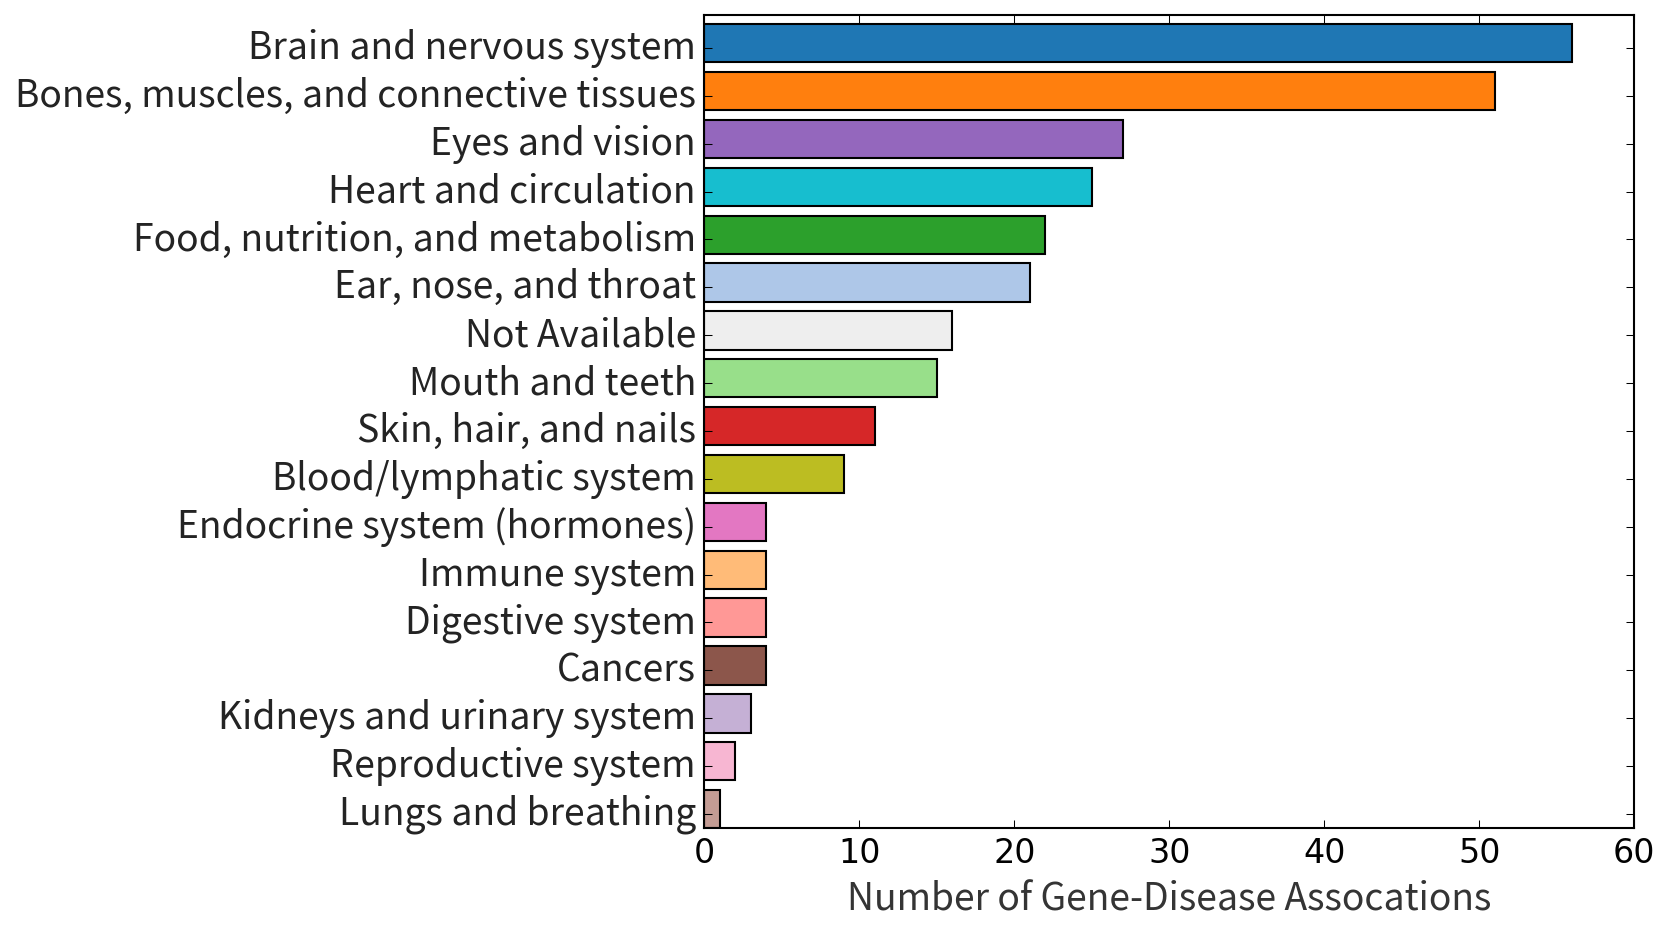
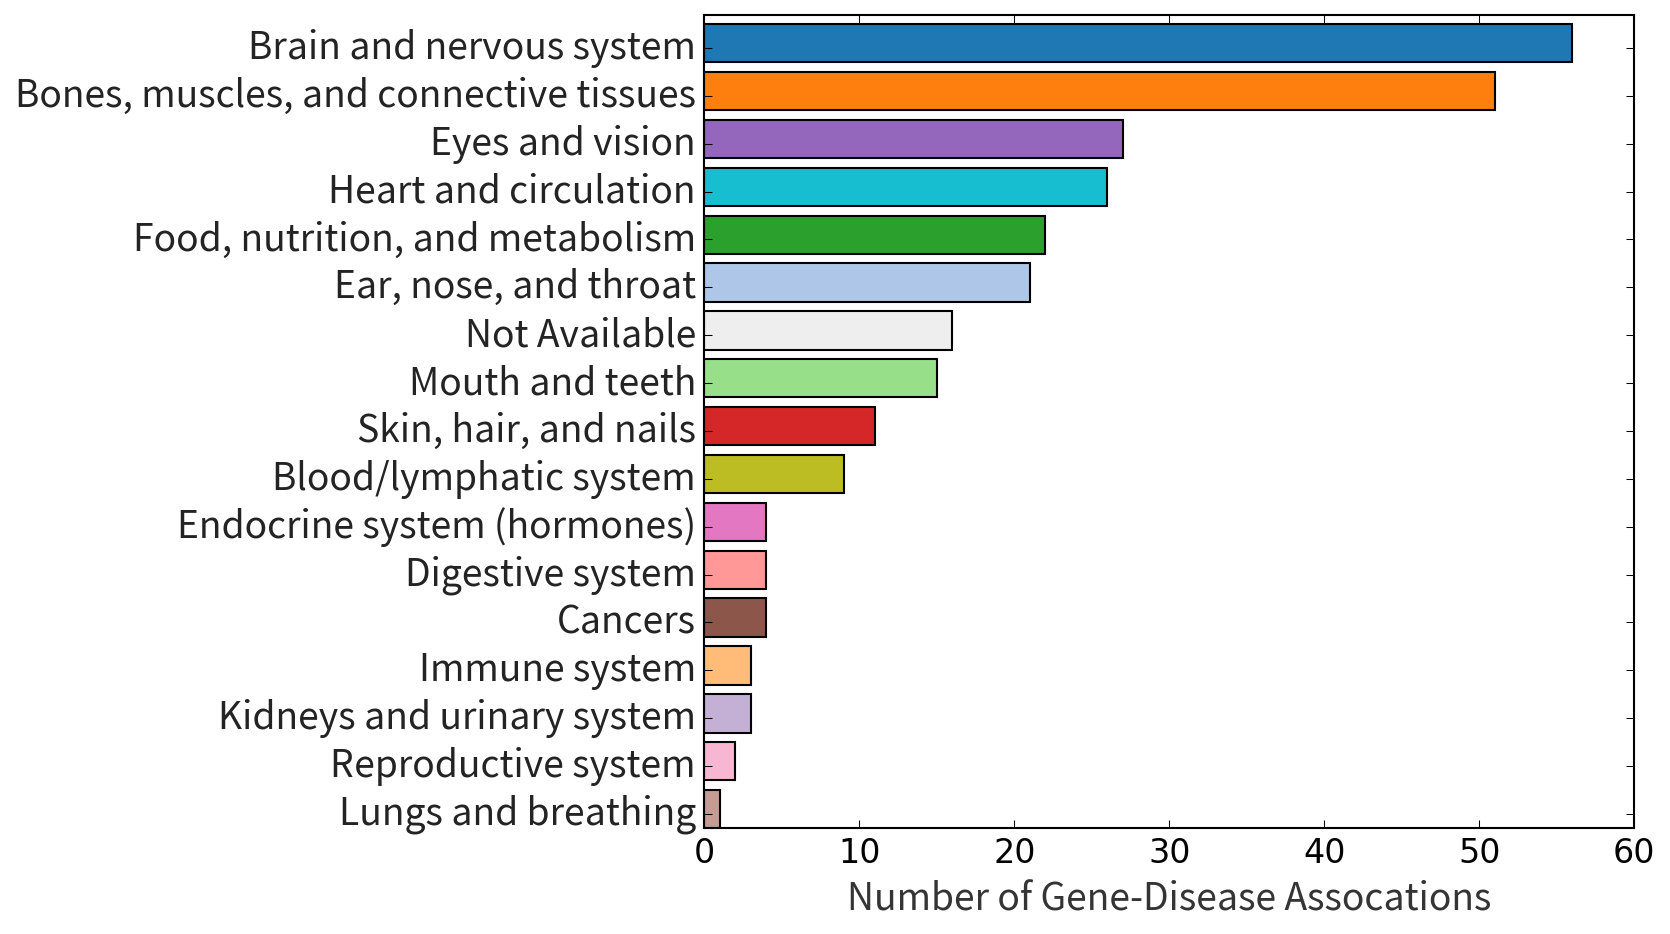
enhanced data analysis

Changed region(s): [[0.2491, 0.5899, 0.4671, 0.7452], [0.6539, 0.1863, 0.685, 0.2173]]

diff --git a/templates/index.html b/templates/index.html
@@ -23,7 +23,7 @@
       </figure>
       <p class="intro"><a href="https://en.wikipedia.org/wiki/Drug_development">Drug development</a> is becoming increasingly costly and time-consuming.</p>
       <p class="intro">As of 2016, FDA-approved drugs <a href="http://csdd.tufts.edu/news/complete_story/pr_outlook_2016">average $2.6 billion and 15 years of development time</a>.</p> 
-    <p class="intro">A large percentage of effort is wasted on failed drugs. Candidates that make it out of the laboratory and into clinical trials have a <a href="http://www.nature.com/nbt/journal/v32/n1/abs/nbt.2786.html">very low success rate of around 10%</a>.</p>
+    <p class="intro">A large percentage of effort is wasted on failed drugs. Drug candidates that make it out of the laboratory and into clinical trials have a <a href="http://www.nature.com/nbt/journal/v32/n1/abs/nbt.2786.html">very low success rate</a> of around 10%.</p>
 
 <!--       <p>This data-centric approach is designed to help large and small pharmaceutical companies optimize the direction of their R&D efforts.</p> -->
 	  
@@ -70,6 +70,7 @@
         <li>Literature resources: <a href="http://geneticassociationdb.nih.gov/">Genetic Association Database</a>, <a href="http://www.dbs.ifi.lmu.de/~bundschu/LHGDN.html">Literature-derived Human Gene-Disease Network </a>, <a href="http://ibi.imim.es/befree/">BeFree</a>.</li>
         </ul>
       <li>The <a href="http://human-phenotype-ontology.github.io/">Human Phenotype Ontology</a> database contains human-only associations between genes and diseases organized by phenotype. It is designed not only to identify gene-disease associations but also demonstrate how these links can be put to use by the medical community.</li>
+      <li>The <a href="http://diseases.jensenlab.org/Search">DISEASES</a> database contains gene-disease associations extracted from biomedical research abstracts with text mining algorithms.</li>
       </ul>
       
       <p>&nbsp;</p>
@@ -98,6 +99,12 @@
       <td>SQL & TSV</td>
       <td>Query through sqlite3, ipython, and pandas</td>
       <td>>115000 GDAs</td>
+      </tr>
+      <tr>
+      <td>DISEASES</td>
+      <td>TSV</td>
+      <td>Download and load into pandas dataframe</td>
+      <td>>470000 GDAs</td>
       </tr>
       </table>
       

diff --git a/static/style.css b/static/style.css
@@ -30,7 +30,7 @@ b               { font-weight: 400; }
                   font-weight: 600; }
 .subheading		{ font-family: 'Raleway'; color: #444; clear: both; font-weight: 500;
                   /* padding-top: 16px; */ }
-.caption		{ font-family: 'Raleway', sans-serif; font-weight: 500; 
+.caption		{ font-family: 'Raleway', sans-serif; font-weight: 500; padding-top: 16px;
                   text-align: center; color: #444; }
 .bokeh			{ border: 1px solid #777; padding: 24px; text-align: left; }
 .mpl			{ border: 1px solid #777; padding: 24px; text-align: center; 

diff --git a/app.py b/app.py
@@ -11,6 +11,9 @@ from datetime import date
 app = Flask(__name__)
 
 
+catclr = {'Ear, nose, and throat': '#aec7e8', 'Endocrine system (hormones)': '#e377c2', 'Lungs and breathing': '#c49c94', 'Heart and circulation': '#17becf', 'Reproductive system': '#f7b6d2', 'Eyes and vision': '#9467bd', 'Digestive system': '#ff9896', 'Bones, muscles, and connective tissues': '#ff7f0e', 'Skin, hair, and nails': '#d62728', 'Immune system': '#ffbb78', 'Food, nutrition, and metabolism': '#2ca02c', 'Cancers': '#8c564b', 'Mouth and teeth': '#98df8a', 'Kidneys and urinary system': '#c5b0d5', 'Not Available': '#eeeeee', 'Blood/lymphatic system': '#bcbd22', 'Brain and nervous system': '#1f77b4'}
+
+
 @app.route('/')
 def main():
     return redirect('/index')
@@ -20,23 +23,24 @@ def main():
 def index():  #remember the function name does not need to match the URL
 
     # Load plot data
-    dfall = pd.read_csv('GeneDiseaseMoreCats.csv')
+#     dfall = pd.read_csv('GeneDiseaseMoreCats.csv')
+    dfall = pd.read_csv('ThreeGDA.tsv',sep='\t')
     dfall.fillna(value='Not Available', inplace=True)
     yy = dfall['Number of genes']
-    xx = dfall['score']
+    xx = dfall['score_total']
 
     # Generate colors for graphs
-    colorseq = ['#1f77b4', '#aec7e8', '#ff7f0e', '#ffbb78', '#2ca02c',
-                '#98df8a', '#d62728', '#ff9896', '#9467bd', '#c5b0d5',
-                '#8c564b', '#c49c94', '#e377c2', '#f7b6d2', '#7f7f7f',
-                '#c7c7c7', '#bcbd22', '#dbdb8d', '#17becf', '#9edae5']
-    colordark = colorseq[0::2]
-    colorlight = colorseq[1::2]
-    clrdrklt = colordark.copy()
-    clrdrklt.extend(colorlight)
-    uniqcat = dfall['category'].unique()
-    catclr = dict(zip(uniqcat.tolist(),clrdrklt[:len(uniqcat)]))
-    catclr['Not Available'] = '#eeeeee'
+#     colorseq = ['#1f77b4', '#aec7e8', '#ff7f0e', '#ffbb78', '#2ca02c',
+#                 '#98df8a', '#d62728', '#ff9896', '#9467bd', '#c5b0d5',
+#                 '#8c564b', '#c49c94', '#e377c2', '#f7b6d2', '#7f7f7f',
+#                 '#c7c7c7', '#bcbd22', '#dbdb8d', '#17becf', '#9edae5']
+#     colordark = colorseq[0::2]
+#     colorlight = colorseq[1::2]
+#     clrdrklt = colordark.copy()
+#     clrdrklt.extend(colorlight)
+#     uniqcat = dfall['category'].unique()
+#     catclr = dict(zip(uniqcat.tolist(),clrdrklt[:len(uniqcat)]))
+#     catclr['Not Available'] = '#eeeeee'
 
     # Scatter points for better readability
     np.random.seed(1)
